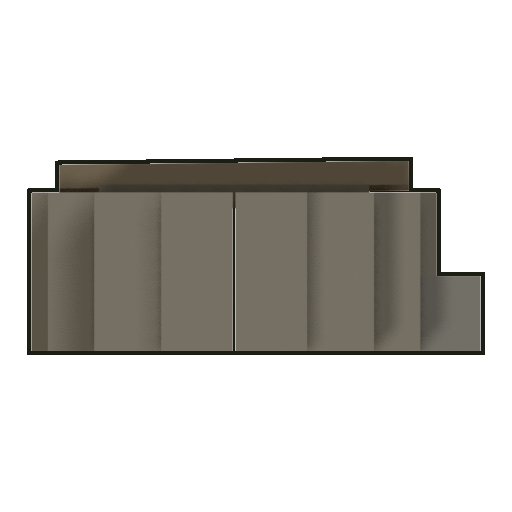
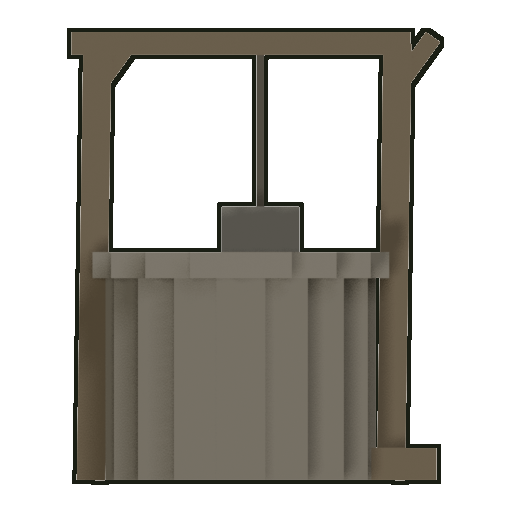
Make the village well read as a well
Laid all 29 props out in one contact sheet at a common scale — the audit the
plan's own rule asks for before adding art — and `well_v` was the one that read
as nothing at all: a wide flat band of blockwork with a lighter slab behind it.

Two faults. The proportions were 0.84 m across by 0.40 m tall, so from the side
camera every prop is rendered with, it is a band rather than a shaft. And the
shape that says "well" — a dark circle — is a PLAN view, which a side-on
orthographic camera can never show, so the previous rebuild had removed the
storybook gantry and left nothing in its place that could read.

What reads from the side is the frame: two forked posts, a cross-pole, and a
pail on a rope. Unmistakable in silhouette, and what delta village wells
actually carry. The drum is taller than it is wide now, with an overhanging cap
course so the rim is a line rather than the top of a wall, and the authored
height goes 0.9 -> 1.5 m because the frame is most of it. Checked against a
1.8 m reference: the drum sits at waist height with the pole above head height.

Props still 29 MB, total 118.3 of 130.

diff --git a/tools/render_props.py b/tools/render_props.py
@@ -708,26 +708,47 @@ def build_shrine():
 
 
 def build_wellviet():
-    """A village well: a low ring of blockwork, a plank lid, a tin pail.
+    """A village well: a blockwork drum, a rope frame, a pail on the rim.
 
-    No gantry, no shingled roof, no crank — the thing this replaces was a
-    storybook wishing well.
+    The predecessor was a storybook wishing well and this replaced it with a low
+    ring of blocks — 0.84 m across and 0.40 m tall, which from the side camera
+    every prop is rendered with is a WIDE FLAT BAND, and in a contact sheet of
+    all 29 props it was the one thing that read as nothing at all.
+
+    Two things were wrong. The proportions: a well is about as tall as it is
+    wide, not half. And more importantly, a side-on orthographic camera cannot
+    see into the mouth, so the shape that says "well" in plan — a dark circle —
+    is unavailable here. What reads from the side is the FRAME: two forked posts,
+    a cross-pole and a pail on a rope. That silhouette is unmistakable, and it
+    is also what village wells in the delta actually carry.
     """
     ring = _pmat('wv_ring', (0.150, 0.140, 0.120))
+    cap = _pmat('wv_cap', (0.175, 0.163, 0.140))
     dark = _pmat('wv_dark', (0.052, 0.050, 0.044))
     wood = _pmat('wv_wood', (0.120, 0.088, 0.052))
     tin = _pmat('wv_tin', (0.130, 0.134, 0.130))
     import math as _m
-    # the ring, as a low drum of blocks
-    for i in range(14):
-        a = (i / 14.0) * _m.pi * 2
-        x, y = _m.cos(a) * 0.42, _m.sin(a) * 0.42
-        _box(ring, x - 0.09, y - 0.07, 0.0, x + 0.09, y + 0.07, 0.40)
-    _box(dark, -0.34, -0.26, 0.36, 0.34, 0.26, 0.42)          # the water, in shadow
-    # a couple of planks laid across it
-    _beam(wood, -0.44, 0.44, 0.44, 0.45, t=0.030, y=-0.10, yt=0.07)
-    _beam(wood, -0.44, 0.42, 0.44, 0.43, t=0.026, y=0.12, yt=0.06)
-    _box(tin, 0.46, -0.10, 0.0, 0.62, 0.10, 0.19)             # pail beside it
+    # the drum: taller than it is wide across the front, so it reads as a shaft
+    for i in range(16):
+        ang = (i / 16.0) * _m.pi * 2
+        x, y = _m.cos(ang) * 0.34, _m.sin(ang) * 0.34
+        _box(ring, x - 0.075, y - 0.062, 0.0, x + 0.075, y + 0.062, 0.62)
+    # a cap course, overhanging a little — the line that makes it a rim and not
+    # the top of a wall
+    for i in range(16):
+        ang = ((i + 0.5) / 16.0) * _m.pi * 2
+        x, y = _m.cos(ang) * 0.38, _m.sin(ang) * 0.38
+        _box(cap, x - 0.082, y - 0.068, 0.62, x + 0.082, y + 0.068, 0.70)
+    _box(dark, -0.26, -0.20, 0.66, 0.26, 0.20, 0.70)          # the shaft, in shadow
+    # THE FRAME. Two forked posts and a cross-pole, which is what actually
+    # reads as a well from a side view.
+    for sx in (-0.46, 0.46):
+        _beam(wood, sx, 0.0, sx + 0.02, 1.34, t=0.044, y=0.0, yt=0.042)
+        _beam(wood, sx, 1.18, sx + 0.13, 1.36, t=0.028, y=0.0, yt=0.026)   # fork
+    _beam(wood, -0.52, 1.34, 0.52, 1.34, t=0.036, y=0.0, yt=0.034)         # cross-pole
+    _beam(dark, 0.06, 1.32, 0.06, 0.84, t=0.012, y=0.0, yt=0.012)          # rope
+    _box(tin, -0.06, -0.10, 0.62, 0.18, 0.10, 0.84)                        # pail
+    _box(wood, 0.40, -0.12, 0.0, 0.60, 0.12, 0.10)                         # spill trough
 
 
 def build_stallviet():
@@ -826,7 +847,7 @@ BUILT = {
     'stonewall_a': (build_stonewall, 1.05),
     # village fittings, replacing donor props from a fantasy pack
     'shrine_a':    (build_shrine, 1.5),
-    'well_v':      (build_wellviet, 0.9),
+    'well_v':      (build_wellviet, 1.5),   # the rope frame is most of the height now
     'stall_v':     (build_stallviet, 2.1),
     'cart_v':      (build_cartviet, 1.4),
 }
